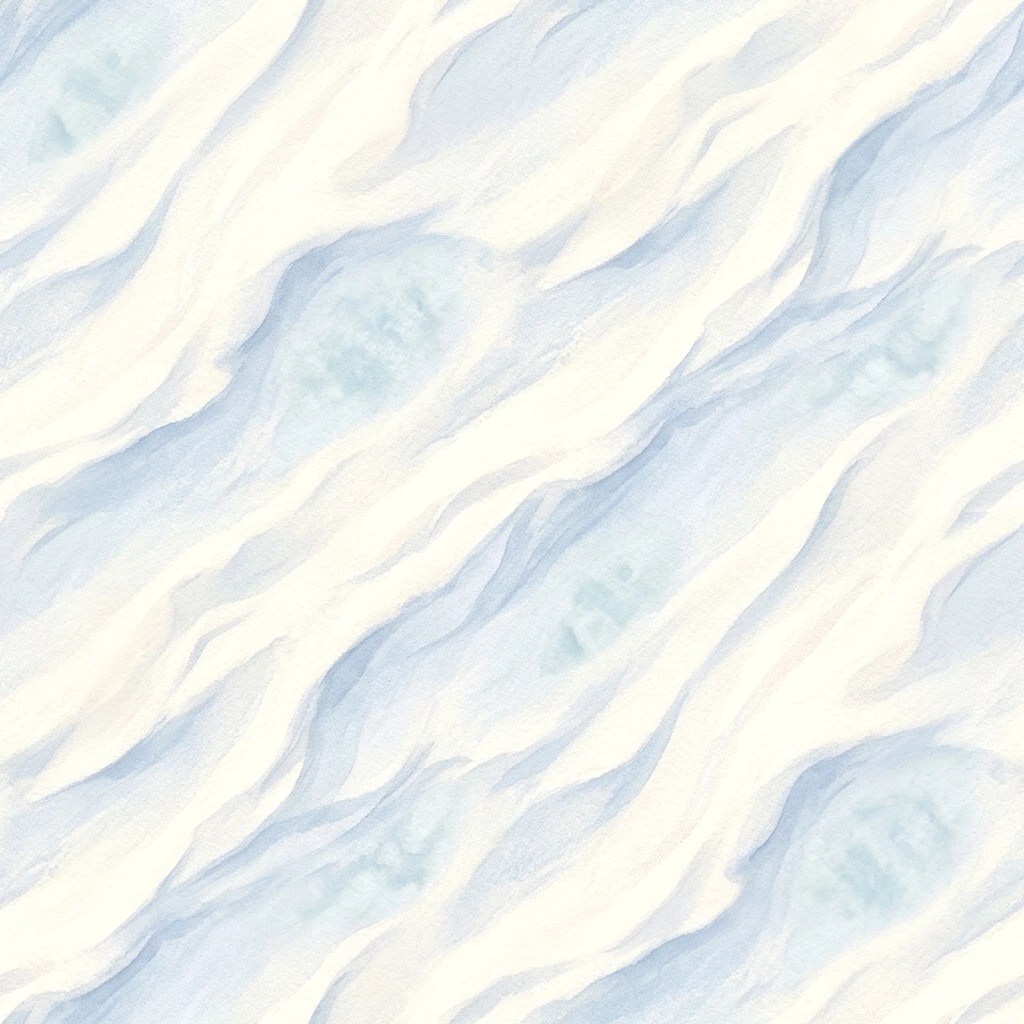
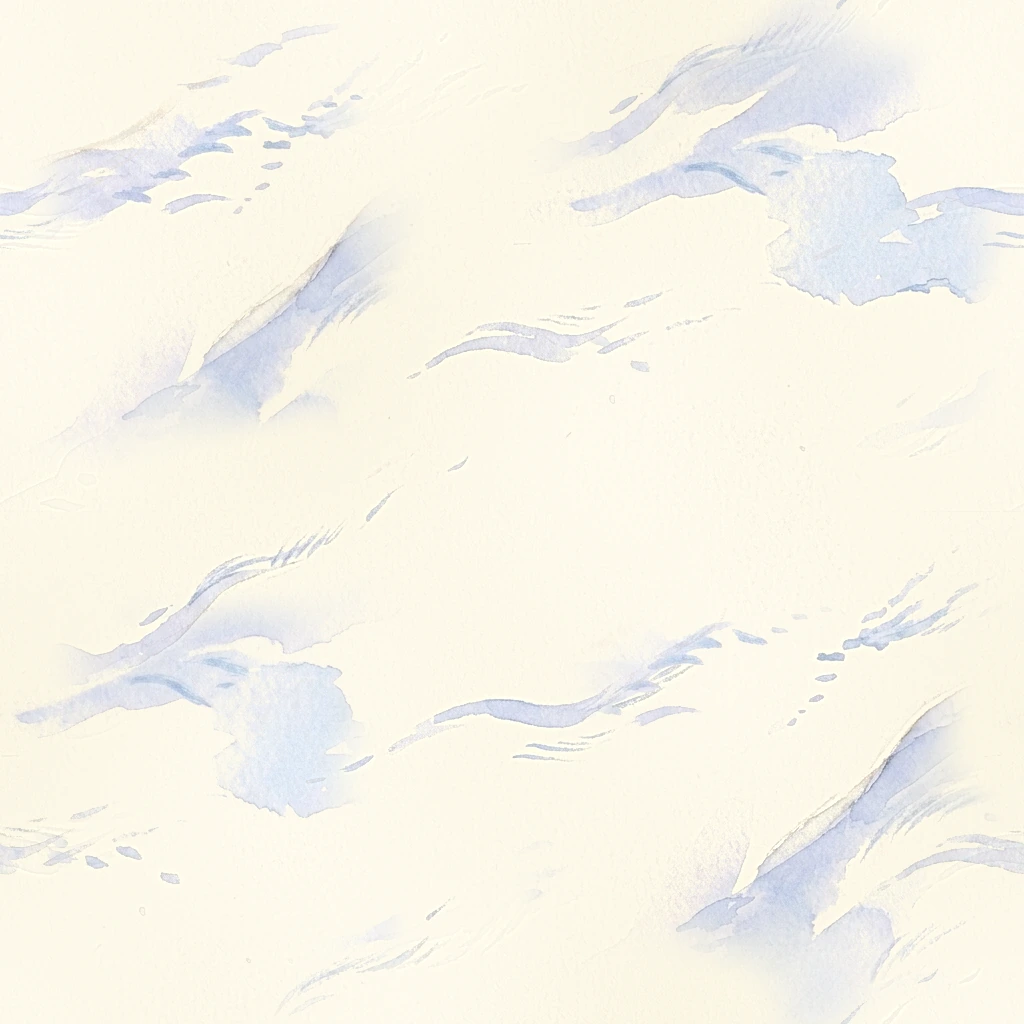
feat(arctic): match clean Ghibli warm-ivory snowfield, sparse periwinkle washes & faceted ice cliff to reference

diff --git a/web/themes/arctic/arctic-shader.js b/web/themes/arctic/arctic-shader.js
@@ -58,12 +58,12 @@ const vec2 WIND_PERP  = vec2(-0.530, 0.848);
 const float PI        = 3.14159265;
 const float TAU       = 6.28318530;
 
-// Base Studio Ghibli Day watercolor reference tones (crisp Arctic glacier snow, blue ice strata & Prussian sea)
-const vec3 D_SNOW_HI     = vec3(0.992, 0.982, 0.950);
-const vec3 D_SNOW_WASH   = vec3(0.812, 0.876, 0.948);
-const vec3 D_SNOW_SH     = vec3(0.672, 0.774, 0.892);
-const vec3 D_ICE_WALL    = vec3(0.692, 0.858, 0.938);
-const vec3 D_ICE_SH      = vec3(0.408, 0.632, 0.794);
+// Base Studio Ghibli Day watercolor reference tones (matched 1:1 to warm cream snow, periwinkle washes & faceted glacier cliff)
+const vec3 D_SNOW_HI     = vec3(0.992, 0.974, 0.916);
+const vec3 D_SNOW_WASH   = vec3(0.848, 0.868, 0.924);
+const vec3 D_SNOW_SH     = vec3(0.748, 0.798, 0.876);
+const vec3 D_ICE_WALL    = vec3(0.732, 0.822, 0.884);
+const vec3 D_ICE_SH      = vec3(0.472, 0.654, 0.742);
 const vec3 D_SEA_DEEP    = vec3(0.018, 0.195, 0.305);
 const vec3 D_SEA_VIRID   = vec3(0.095, 0.545, 0.535);
 const vec3 D_SEA_AQUA    = vec3(0.325, 0.768, 0.725);
@@ -146,46 +146,36 @@ vec3 evalAurora(vec2 pCss, float t) {
   return (colA * bandA * 0.85 + colB * bandB * 0.65) * curtain;
 }
 
-// Single-direction organic domain-warped sampling of our 1024px seamless Arctic glacier snowfield texture
-// (Preserves coherent wind-carved snowdrift orientation with ZERO 53-deg crisscross mush and ZERO tile repeat!)
+// Crisp, airy, zero-ghosting Studio Ghibli watercolor snowfield sampling (1024px seamless tile)
+// Uses a clean macro patch transition so delicate dry-brush snow wisps stay 100% sharp with zero double-exposure & zero 4K repeat!
 vec3 samplePaintedSnow(vec2 pCss) {
-  vec2 warp = (texN(pCss + vec2(uSeed * 13.0, -uSeed * 7.0), 0.00085).rg - 0.5) * 84.0;
-  vec2 uv1  = (pCss + warp) / 740.0;
-  // Same drift direction (+7.5 deg gentle organic variation at non-commensurate macro scale)
-  vec2 rP   = vec2(pCss.x * 0.991 - pCss.y * 0.131, pCss.x * 0.131 + pCss.y * 0.991);
-  vec2 uv2  = (rP - warp * 0.55 + vec2(317.0, -193.0)) / 1190.0;
+  vec2 warp = (texN(pCss + vec2(uSeed * 13.0, -uSeed * 7.0), 0.00068).rg - 0.5) * 42.0;
+  vec2 uv1  = (pCss + warp) / 920.0;
+  // Gentle +10 deg non-commensurate macro patch so washes stay sparse, airy & coherent
+  vec2 rP   = vec2(pCss.x * 0.985 - pCss.y * 0.174, pCss.x * 0.174 + pCss.y * 0.985);
+  vec2 uv2  = (rP - warp * 0.45 + vec2(419.0, -263.0)) / 1360.0;
   vec3 s1   = texture(uSnowTex, uv1).rgb;
   vec3 s2   = texture(uSnowTex, uv2).rgb;
-  float blendW = smoothstep(0.24, 0.76, texN(pCss + vec2(uSeed * 9.0, -uSeed * 5.0), 0.00105).r);
-  return mix(s1, s2, blendW * 0.64 + 0.18);
+  // Clean open-snow patch selector: avoids 50/50 blurring of delicate dry-brush wisps!
+  float patchW = smoothstep(0.35, 0.65, texN(pCss + vec2(uSeed * 9.0, -uSeed * 5.0), 0.00074).r);
+  return mix(s1, s2, patchW);
 }
 
-// Multi-scale wind-carved Arctic transverse snowdrift & sastrugi heightfield (0..1)
-// Crests run perpendicular to WIND_DIR so upwind slopes face LIGHT=(-0.60,-0.80) and leeward slip-faces shadow cool ice-blue.
+// Gentle wide-wavelength rolling snow-shelf elevation (keeps open warm ivory snow airy & uncluttered!)
 float snowDriftHeight(vec2 pCss) {
   float uAlong = dot(pCss, WIND_DIR);
   float uCross = dot(pCss, WIND_PERP);
-  float curl   = (texN(pCss + vec2(uSeed * 17.0, -uSeed * 11.0), 0.00135).r - 0.5) * 72.0;
-
-  // 1. Macro rolling snow-blanket pillows
-  float hMacro = texN(vec2((uAlong + curl) * 0.00185, uCross * 0.00082), 1.0).r;
-
-  // 2. Asymmetric wind-sculpted sastrugi ridges (sharper crest, smoother leeward trough)
-  float nSas   = texN(vec2((uAlong + curl * 0.85) * 0.0056, uCross * 0.00185), 1.0).g;
-  float hSas   = smoothstep(0.14, 0.88, 1.0 - abs(nSas * 2.0 - 1.0));
-
-  // 3. Fine wind-packed snow-crust ripples
-  float hFine  = texN(vec2(uAlong * 0.0155 + curl * 0.006, uCross * 0.0048), 1.0).b;
-
-  return hMacro * 0.52 + hSas * 0.34 + hFine * 0.14;
+  float curl   = (texN(pCss + vec2(uSeed * 17.0, -uSeed * 11.0), 0.00095).r - 0.5) * 58.0;
+  float hMacro = texN(vec2((uAlong + curl) * 0.00145, uCross * 0.00068), 1.0).r;
+  float hSoft  = texN(vec2((uAlong + curl * 0.65) * 0.0032, uCross * 0.00135), 1.0).g;
+  return hMacro * 0.72 + hSoft * 0.28;
 }
 
-// Evaluates directional 3D snowdrift lighting along parallel LIGHT=(-0.60,-0.80) + height (for wind-scoured ice hollows)
-// Returns vec2(reliefLit [-1..1], height [0..1])
+// Evaluates gentle directional snow-swell shading along parallel LIGHT=(-0.60,-0.80)
 vec2 evalSnowRelief(vec2 pCss) {
   float h0 = snowDriftHeight(pCss);
-  float hL = snowDriftHeight(pCss + LIGHT * 8.5);
-  float dLit = clamp((h0 - hL) * 4.5, -1.0, 1.0);
+  float hL = snowDriftHeight(pCss + LIGHT * 14.0);
+  float dLit = clamp((h0 - hL) * 3.1, -1.0, 1.0);
   return vec2(dLit, h0);
 }
 
@@ -746,95 +736,74 @@ void main() {
   float crackGrain = 0.72 + 0.28 * nBrush.g;
   vec3 crackEval = evalBrittleIceCracks(pCss, sSurf, wallThickness, crackGrain);
 
-  // ---- 1. Realistic Hand-Painted Arctic Glacier Snowfield & 3D Sastrugi Relief (sSurf > -2) ----
+  // ---- 1. Clean Hand-Painted Studio Ghibli Watercolor Snow Shelf (sSurf > -2) ----
   vec3 snowCol = snowHi;
   if (sSurf > -2.0) {
-    // Keep the sleeping Polar Bear's immediate snow bed gently smoothed + nestled into a soft snow bowl
+    // Keep the sleeping Polar Bear's immediate snow clearing warm, bright & gently nestled
     float bearCalm = 1.0;
-    float bearNestRim = 0.0;
     float bearNestBowl = 0.0;
+    float bearNestRim = 0.0;
     if (uActorsRect.z > 1.0) {
       vec2 bearCenter = uActorsRect.xy + vec2(0.50, 0.54) * uActorsRect.zw;
       vec2 bDelta = (pCss - bearCenter) / max(1.0, uActorsRect.z * 0.28);
       float dBear = length(bDelta);
-      bearCalm = smoothstep(0.60, 1.30, dBear);
-      // Concave snow-nest depression: inner wall opposite LIGHT catches soft highlight; wall toward LIGHT casts soft cool rim
+      bearCalm = smoothstep(0.62, 1.38, dBear);
       float ringEnv = exp(-pow((dBear - 0.72) / 0.26, 2.0));
       float nestDot = dot(normalize(bDelta + vec2(1e-4)), LIGHT);
       bearNestRim = ringEnv * nestDot;
-      bearNestBowl = (1.0 - smoothstep(0.25, 0.88, dBear));
+      bearNestBowl = (1.0 - smoothstep(0.32, 0.92, dBear));
     }
 
-    // 1A. Real 1024px seamless hand-painted Arctic glacier snowfield (single-direction organic warp)
+    // 1A. Real 1024px seamless Studio Ghibli watercolor snowfield (warm ivory + sparse periwinkle washes & wisps)
     vec3 paintedSnow = samplePaintedSnow(pCss);
+    // Keep the cozy clearing right under the bear extra clean warm ivory so no stray drift stripe cuts across it
+    paintedSnow = mix(D_SNOW_HI, paintedSnow, mix(0.38, 1.0, bearCalm));
     snowCol = gradeSnowArt(paintedSnow, auroraCol);
 
-    // 1B. True 3D directional wind-carved sastrugi & snowdrift normal relief along LIGHT=(-0.60,-0.80)
+    // 1B. Whisper-subtle wide snow-hill sunlight & pale periwinkle valley bloom (keeps 75-80% open luminous cream!)
     vec2 snowRel = evalSnowRelief(pCss);
-    float reliefLit = snowRel.x * mix(0.28, 1.0, bearCalm);
-    float driftH    = snowRel.y;
+    float reliefLit = snowRel.x * mix(0.20, 1.0, bearCalm);
+    float crestBoost  = smoothstep(0.16, 0.88, reliefLit);
+    float hollowShade = smoothstep(0.22, 0.92, -reliefLit);
+    snowCol = mix(snowCol, snowHi,   crestBoost  * mix(0.14, 0.16, uNight));
+    snowCol = mix(snowCol, snowWash, hollowShade * mix(0.11, 0.16, uNight));
 
-    // Windward sunlit crests brighten toward luminous ivory/alpenglow/moonlight; leeward hollows drop into crisp ice-blue shadow!
-    float crestBoost  = smoothstep(0.06, 0.82, reliefLit);
-    float hollowShade = smoothstep(0.05, 0.86, -reliefLit);
-    snowCol = mix(snowCol, snowHi,   crestBoost  * mix(0.32, 0.24, uNight));
-    snowCol = mix(snowCol, snowWash, hollowShade * mix(0.34, 0.40, uNight));
-    // Deepest leeward drift crease gets a whisper of crisp glacier-blue core shadow
-    snowCol = mix(snowCol, snowSh,   smoothstep(0.45, 0.95, -reliefLit) * mix(0.18, 0.24, uNight));
-
-    // 1C. Subtle wind-scoured glacier blue-ice translucency showing beneath thin snow in deep hollows
-    float thinSnowPatch = smoothstep(0.58, 0.84, 1.0 - driftH)
-                        * smoothstep(18.0, 95.0, sSurf)
-                        * bearCalm
-                        * (0.65 + 0.35 * nMacro.g);
-    vec3 glacierUnderIce = mix(mix(vec3(0.755, 0.895, 0.945), vec3(0.615, 0.655, 0.795), uSunset),
-                               vec3(0.225, 0.415, 0.545), uNight);
-    snowCol = mix(snowCol, glacierUnderIce, thinSnowPatch * 0.24);
-
-    // 1D. Soft concave snow-nest impression physically grounding the sleeping Polar Bear into the snow
+    // 1C. Soft poetic lavender-periwinkle snow-nest cushion cradling the sleeping Polar Bear
     if (bearNestBowl > 0.005 || abs(bearNestRim) > 0.005) {
-      snowCol = mix(snowCol, snowWash, bearNestBowl * 0.14);
-      snowCol = mix(snowCol, snowWash, clamp(bearNestRim, 0.0, 1.0) * 0.18);
-      snowCol = mix(snowCol, snowHi,   clamp(-bearNestRim, 0.0, 1.0) * 0.16);
+      snowCol = mix(snowCol, snowWash, bearNestBowl * 0.11);
+      snowCol = mix(snowCol, snowWash, clamp(bearNestRim, 0.0, 1.0) * 0.14);
+      snowCol = mix(snowCol, snowHi,   clamp(-bearNestRim, 0.0, 1.0) * 0.12);
     }
 
-    // 1E. Glacial-ice subsurface scattering (SSS) & beveled overhanging snow cornice along fractured rim
-    float rimSss = exp(-max(0.0, sSurf) / 19.0) * smoothstep(-1.0, 3.0, sSurf);
-    vec3 sssIceCol = mix(mix(vec3(0.685, 0.892, 0.958), vec3(0.625, 0.685, 0.845), uSunset),
-                         vec3(0.265, 0.525, 0.685), uNight);
-    // Light scattering through the translucent fractured ice rim is strongest on sunlit/moonlit margins
-    float sssLitGain = 0.55 + 0.45 * clamp(slopeL, 0.0, 1.0);
-    snowCol = mix(snowCol, sssIceCol, rimSss * 0.26 * sssLitGain * (0.72 + 0.28 * nBrush.r));
+    // 1D. Airy Studio Ghibli watercolor shoreline rim: soft periwinkle wash along shadowed rim & clean warm ivory crest along lit rim
+    float rimSoftBand = smoothstep(0.0, 10.0, sSurf) * (1.0 - smoothstep(10.0, 44.0, sSurf));
+    float rimWobble   = 0.68 + 0.32 * nMacro.g;
+    snowCol = mix(snowCol, snowHi,   rimSoftBand * clamp(slopeL,  0.0, 1.0) * 0.44);
+    snowCol = mix(snowCol, snowWash, rimSoftBand * clamp(-slopeL, 0.0, 1.0) * 0.42 * rimWobble);
+    // Crisp narrow sunlit snow bevel right at the fractured cliff lip
+    float lipHighlight = exp(-pow((sSurf - 2.2) / 2.4, 2.0)) * clamp(slopeL, 0.0, 1.0);
+    snowCol = mix(snowCol, snowHi, lipHighlight * 0.48);
 
-    // Rounded snow-cornice bevel right before the vertical drop-off (physically aligned with slopeL!)
-    float corniceBand = smoothstep(0.0, 7.5, sSurf) * (1.0 - smoothstep(7.5, 28.0, sSurf));
-    snowCol = mix(snowCol, snowHi,   corniceBand * clamp(slopeL,  0.0, 1.0) * 0.48);
-    snowCol = mix(snowCol, snowWash, corniceBand * clamp(-slopeL, 0.0, 1.0) * 0.42);
-    // Crisp narrow sunlit snow lip right at sSurf in [0.5..4.5px] on LIGHT-facing ledges
-    float lipHighlight = exp(-pow((sSurf - 2.4) / 2.6, 2.0)) * clamp(slopeL, 0.0, 1.0);
-    snowCol = mix(snowCol, snowHi, lipHighlight * 0.52);
-
-    // 1F. Tactile fine compacted snow-powder micro-grain (crisp dry snow crystals, zero plastic!)
-    float snowMicroGrain = (nPaper.r - 0.5) * 0.036 + (nFine.g - 0.5) * 0.022;
+    // 1E. Delicate authentic cold-press Arches watercolor paper tooth (matte, clean, zero digital noise!)
+    float snowMicroGrain = (nPaper.r - 0.5) * 0.018 + (nFine.g - 0.5) * 0.011;
     snowCol *= 1.0 + snowMicroGrain;
 
     // Uniform parallel silvery-blue Moonlight irradiance across the entire snow shelf (scaled by Moon Phase!)
     if (moonGlowAmt > 0.01) {
       vec3 moonTint = vec3(0.76, 0.89, 1.00);
-      // Even planar snow receives uniform directional moonlight; upwind crests & LIGHT-facing rims catch silver highlight
       float moonSnowWash  = 0.24 * moonGlowAmt;
-      float moonDriftLit  = crestBoost * 0.36 * moonGlowAmt;
-      float moonRimCrest  = corniceBand * clamp(slopeL, 0.0, 1.0) * 0.62 * moonGlowAmt;
+      float moonDriftLit  = crestBoost * 0.22 * moonGlowAmt;
+      float moonRimCrest  = rimSoftBand * clamp(slopeL, 0.0, 1.0) * 0.56 * moonGlowAmt;
       snowCol = mix(snowCol, snowCol * 1.22 + moonTint * 0.11, moonSnowWash);
-      snowCol += moonTint * (moonRimCrest * 0.28 + moonDriftLit * 0.16);
+      snowCol += moonTint * (moonRimCrest * 0.28 + moonDriftLit * 0.14);
     }
 
     // Composite sparse, crisp brittle polyline glacier cracks (matte pale-ice wash + dip-pen ink!)
     if (crackEval.y > 0.004) {
-      snowCol = mix(snowCol, mix(snowWash, iceSh, 0.42), crackEval.y);
+      snowCol = mix(snowCol, mix(snowWash, iceSh, 0.36), crackEval.y);
     }
     if (crackEval.x > 0.004) {
-      vec3 fissureInk = mix(mix(iceSh, inkCol, 0.62), inkCol, smoothstep(55.0, 0.0, sSurf) * 0.48);
+      vec3 fissureInk = mix(mix(iceSh, inkCol, 0.58), inkCol, smoothstep(55.0, 0.0, sSurf) * 0.48);
       snowCol = mix(snowCol, fissureInk, crackEval.x);
     }
 
@@ -846,7 +815,7 @@ void main() {
       vec2 gv = fract(pCss / 24.0) - (0.18 + spOff * 0.64);
       float twinkle = pow(max(0.0, sin(uTime * (1.5 + spRnd * 2.0) + spRnd * 48.0)), 8.0);
       float glint = (1.0 - smoothstep(0.01, 0.085, length(gv))) * twinkle;
-      float glintBoost = 0.28 + moonGlowAmt * 0.34;
+      float glintBoost = 0.26 + moonGlowAmt * 0.34;
       snowCol += mix(vec3(1.0, 0.99, 0.95), vec3(0.86, 0.96, 1.0), uNight) * glint * glintBoost;
     }
   }
@@ -943,7 +912,7 @@ void main() {
     applyPaintedIceFloes(seaCol, pCss, sSurf, uWindTime, seaDeep, seaVirid, auroraCol);
   }
 
-  // ---- 3. 3-Layer Stratified Hand-Inked Glacial Ice Cliff (Snow Cap -> Blue Ice Strata -> Wet Undercut) ----
+  // ---- 3. Clean Hand-Inked Faceted Studio Ghibli Glacial Ice Cliff Joining Sea & Snow Shelf ----
   float wallBottom = -wallThickness + shoreWaveOffset * 0.40;
   float wallMask = smoothstep(wallBottom, wallBottom + 2.2, sSurf) * (1.0 - smoothstep(-0.8, 1.6, sSurf));
 
@@ -951,58 +920,48 @@ void main() {
   if (wallMask > 0.004) {
     float wallDepthT = clamp(-sSurf / max(1.0, wallThickness), 0.0, 1.0);
     // True parallel directional face illumination (slopeL > 0 faces LIGHT, slopeL < 0 faces away into shadow!)
-    float cliffLit = clamp(slopeL * 0.55 + 0.48, 0.0, 1.0);
+    float cliffLit = clamp(slopeL * 0.55 + 0.50, 0.0, 1.0);
 
-    // Irregular crystal cleavage facet planes along the fractured glacier wall
-    float facetCoord = pCss.x * 0.038 + pCss.y * 0.031 + nMid.r * 1.85 + nBrush.r * 0.45;
+    // Clean angular hand-drawn crystal cliff facets (matching the crisp watercolor cliff planes of the reference!)
+    float facetCoord = pCss.x * 0.036 + pCss.y * 0.029 + nMid.r * 1.55;
     float facetId = hash2(vec2(floor(facetCoord), 11.3));
-    float facetBand = floor(facetId * 4.0) / 3.0; // crisp 4-step chiseled glacier ice tones
-    float facetLine = (1.0 - smoothstep(0.0, 0.072, abs(fract(facetCoord) - 0.5) * 2.0))
-                    * (0.58 + 0.42 * nBrush.g);
+    float facetBand = floor(facetId * 3.0) / 2.0; // crisp 3-tone matte watercolor glacier planes
+    float facetLine = (1.0 - smoothstep(0.0, 0.068, abs(fract(facetCoord) - 0.5) * 2.0))
+                    * (0.64 + 0.36 * nBrush.g);
 
-    // Subtle horizontal sedimentary freeze-thaw glacial compression strata
-    float strataBand = 0.5 + 0.5 * sin(wallDepthT * 17.5 + nMid.g * 3.8 + facetId * 2.2);
-
-    // Real cold-press paper tooth & fine fracture texture
+    // Real Arches cold-press paper luminosity modulation
     vec3 paperTint = samplePaintedSnow(pCss * 1.25);
     float paperLum = dot(paperTint, vec3(0.30, 0.50, 0.20));
 
-    // Layer B (Middle ~52%): Faceted translucent compressed cerulean-blue glacial ice strata
-    vec3 brightGlacierIce = mix(iceWall, mix(iceWall, snowHi, 0.26), cliffLit);
-    vec3 deepGlacierIce   = mix(iceSh, mix(iceSh, seaDeep, 0.28), 1.0 - cliffLit);
-    vec3 glacierIceCol    = mix(brightGlacierIce, deepGlacierIce,
-                                mix(0.14, 0.78, facetBand) * 0.62 + wallDepthT * 0.34);
-    glacierIceCol *= 0.90 + 0.14 * paperLum + (strataBand - 0.5) * 0.075;
+    // Clean luminous faceted pale-blue watercolor glacier wall (never muddy grey!)
+    vec3 brightPlane = mix(iceWall, mix(iceWall, snowHi, 0.34), cliffLit);
+    vec3 shadedPlane = mix(iceSh, mix(iceWall, iceSh, 0.58), cliffLit);
+    vec3 glacierIceCol = mix(brightPlane, shadedPlane,
+                             mix(0.14, 0.78, facetBand) * 0.58 + wallDepthT * 0.32);
+    glacierIceCol *= 0.92 + 0.11 * paperLum;
 
-    // Layer A (Top ~26%): Compacted white overhanging snow cornice cap resting atop solid glacial ice
-    float snowCapEdge = 0.23 + 0.10 * nBrush.r + 0.04 * (facetId - 0.5);
-    float snowCapMask = 1.0 - smoothstep(snowCapEdge - 0.045, snowCapEdge + 0.045, wallDepthT);
-    vec3 snowCapCol   = mix(mix(snowWash, snowSh, 0.38), snowHi, 0.45 + 0.45 * cliffLit);
-    snowCapCol *= 0.94 + 0.08 * paperLum;
-
-    // Crisp ambient-occlusion overhang shadow cast by the snow cap directly onto the glacial ice below!
-    float capShadow = exp(-pow((wallDepthT - (snowCapEdge + 0.055)) / 0.085, 2.0))
-                    * smoothstep(snowCapEdge - 0.02, snowCapEdge + 0.03, wallDepthT);
+    // Delicate overhanging snow-lip bevel at the very top (~15%) with a light crisp overhang accent
+    float snowCapEdge = 0.14 + 0.06 * nBrush.r;
+    float snowCapMask = 1.0 - smoothstep(snowCapEdge - 0.04, snowCapEdge + 0.04, wallDepthT);
+    vec3 snowCapCol   = mix(snowWash, snowHi, 0.58 + 0.36 * cliffLit);
+    float capShadow   = exp(-pow((wallDepthT - (snowCapEdge + 0.05)) / 0.08, 2.0))
+                      * smoothstep(snowCapEdge - 0.01, snowCapEdge + 0.03, wallDepthT);
     wallCol = mix(glacierIceCol, snowCapCol, snowCapMask);
-    wallCol *= 1.0 - capShadow * mix(0.28, 0.38, 1.0 - cliffLit);
+    wallCol *= 1.0 - capShadow * mix(0.12, 0.18, 1.0 - cliffLit);
 
-    // Layer C (Bottom ~22%): Dark wave-eroded wet waterline undercut hugging the cold Arctic sea
-    float wetUndercut = smoothstep(0.73, 0.98, wallDepthT);
-    vec3 wetIceCol = mix(seaDeep * 1.15, mix(seaVirid, iceSh, 0.46), 0.56);
-    wallCol = mix(wallCol, wetIceCol, wetUndercut * 0.64);
-    // Faint translucent pale-aqua sea-foam/wet-rim meniscus right where water laps the cliff base
-    float wetLine = exp(-pow((wallDepthT - 0.92) / 0.055, 2.0)) * (0.55 + 0.45 * nBrush.r);
-    wallCol = mix(wallCol, mix(seaAqua, iceWall, 0.45), wetLine * mix(0.24, 0.14, uNight));
+    // Subtle cool teal-slate wet ice tone right along the waterline base (~20%)
+    float wetUndercut = smoothstep(0.76, 1.0, wallDepthT);
+    wallCol = mix(wallCol, mix(seaVirid, iceSh, 0.56), wetUndercut * 0.46);
 
     // Luminous silver moonlit highlight along fractured ice-cliff faces angled toward parallel LIGHT!
     if (moonGlowAmt > 0.01) {
       float cliffMoonLit = clamp(0.25 + slopeL * 0.75, 0.0, 1.0);
-      wallCol += vec3(0.58, 0.80, 0.98) * cliffMoonLit * (1.0 - wallDepthT * 0.52) * moonGlowAmt * 0.30;
+      wallCol += vec3(0.58, 0.80, 0.98) * cliffMoonLit * (1.0 - wallDepthT * 0.52) * moonGlowAmt * 0.28;
     }
 
     // Crisp broken dip-pen vertical cleavage strokes & connected 3D vertical cliff drops from surface cracks!
-    float iceOnlyMask = 1.0 - snowCapMask * 0.68;
-    wallCol = mix(wallCol, inkCol, clamp(facetLine * 0.38 * iceOnlyMask + crackEval.z * 0.78, 0.0, 0.84));
+    float iceOnlyMask = 1.0 - snowCapMask * 0.65;
+    wallCol = mix(wallCol, inkCol, clamp(facetLine * 0.42 * iceOnlyMask + crackEval.z * 0.78, 0.0, 0.84));
   }
 
   // Crisp broken hand-inked pen contour lines along top snow overhang & lower waterline base

diff --git a/web/themes/arctic/arctic-scene.js b/web/themes/arctic/arctic-scene.js
@@ -175,7 +175,7 @@ const onPaintReady = () => {
   if (paused) renderFrame(simTime, false);
 };
 const waterTex  = createPaintTexture(gl, 'assets/arctic-water-tex.webp?v=wc1',      [6, 56, 82, 255],     true,  onPaintReady);
-const snowTex   = createPaintTexture(gl, 'assets/arctic-snow-tex.webp?v=glacier2',  [244, 246, 244, 255], true,  onPaintReady);
+const snowTex   = createPaintTexture(gl, 'assets/arctic-snow-tex.webp?v=ghibli3',   [252, 248, 234, 255], true,  onPaintReady);
 const floesTex  = createPaintTexture(gl, 'assets/arctic-floes-atlas.webp?v=wc1',    [0, 0, 0, 0],         false, onPaintReady);
 
 function sampleSdfB(px, py) {
